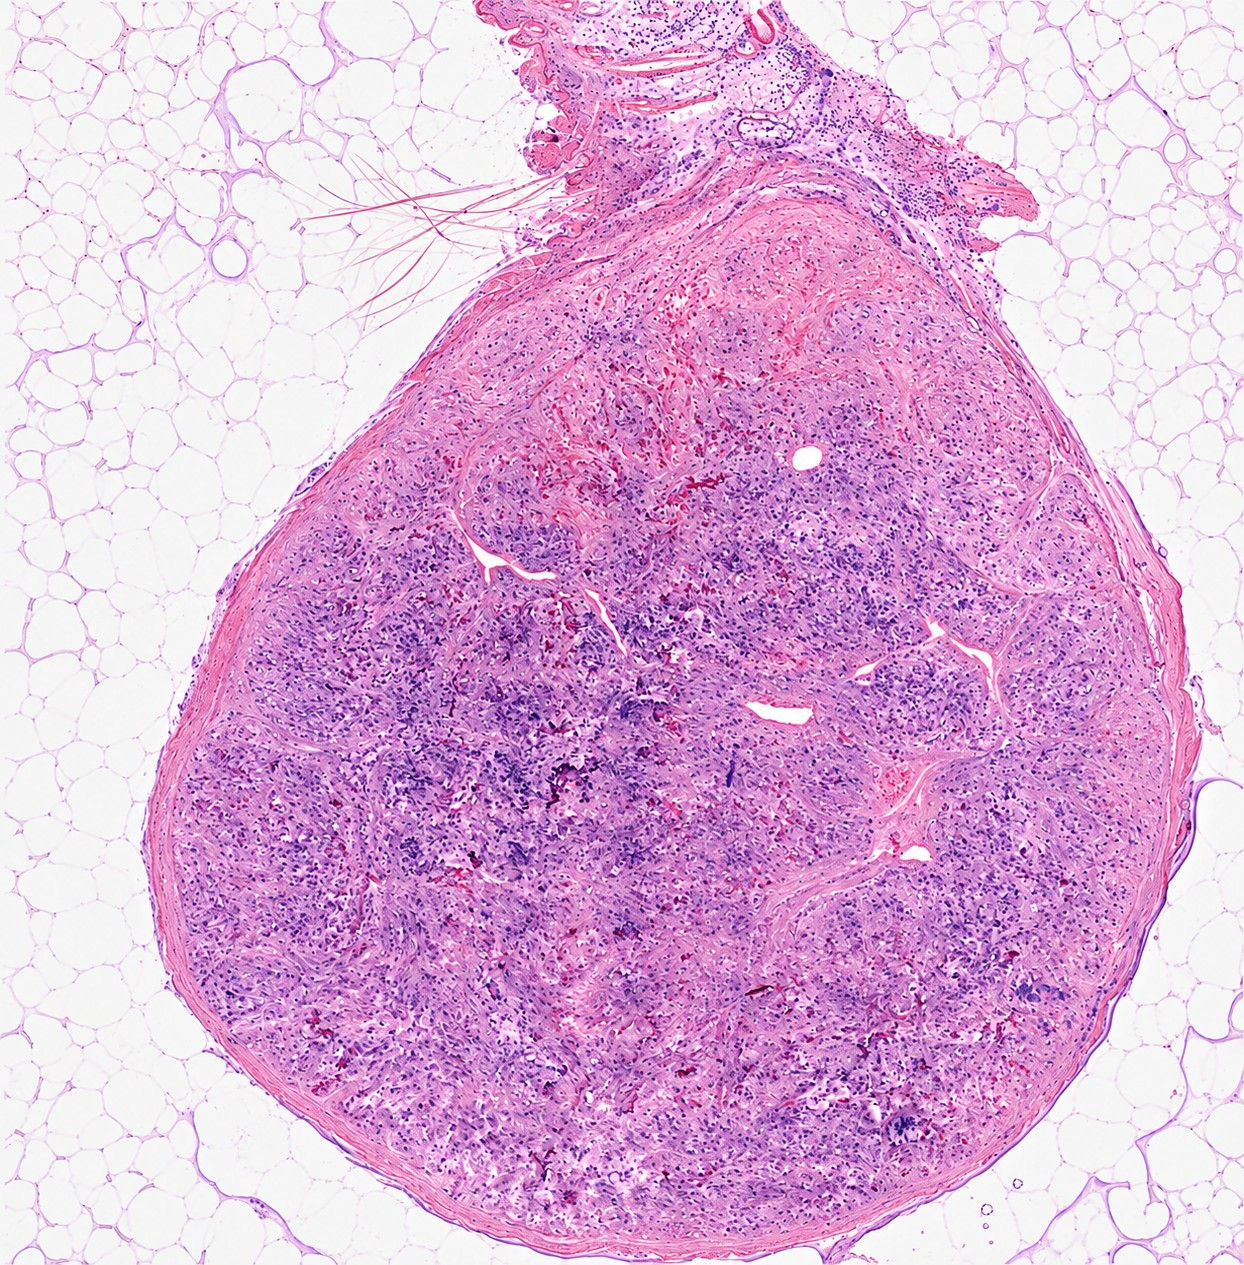
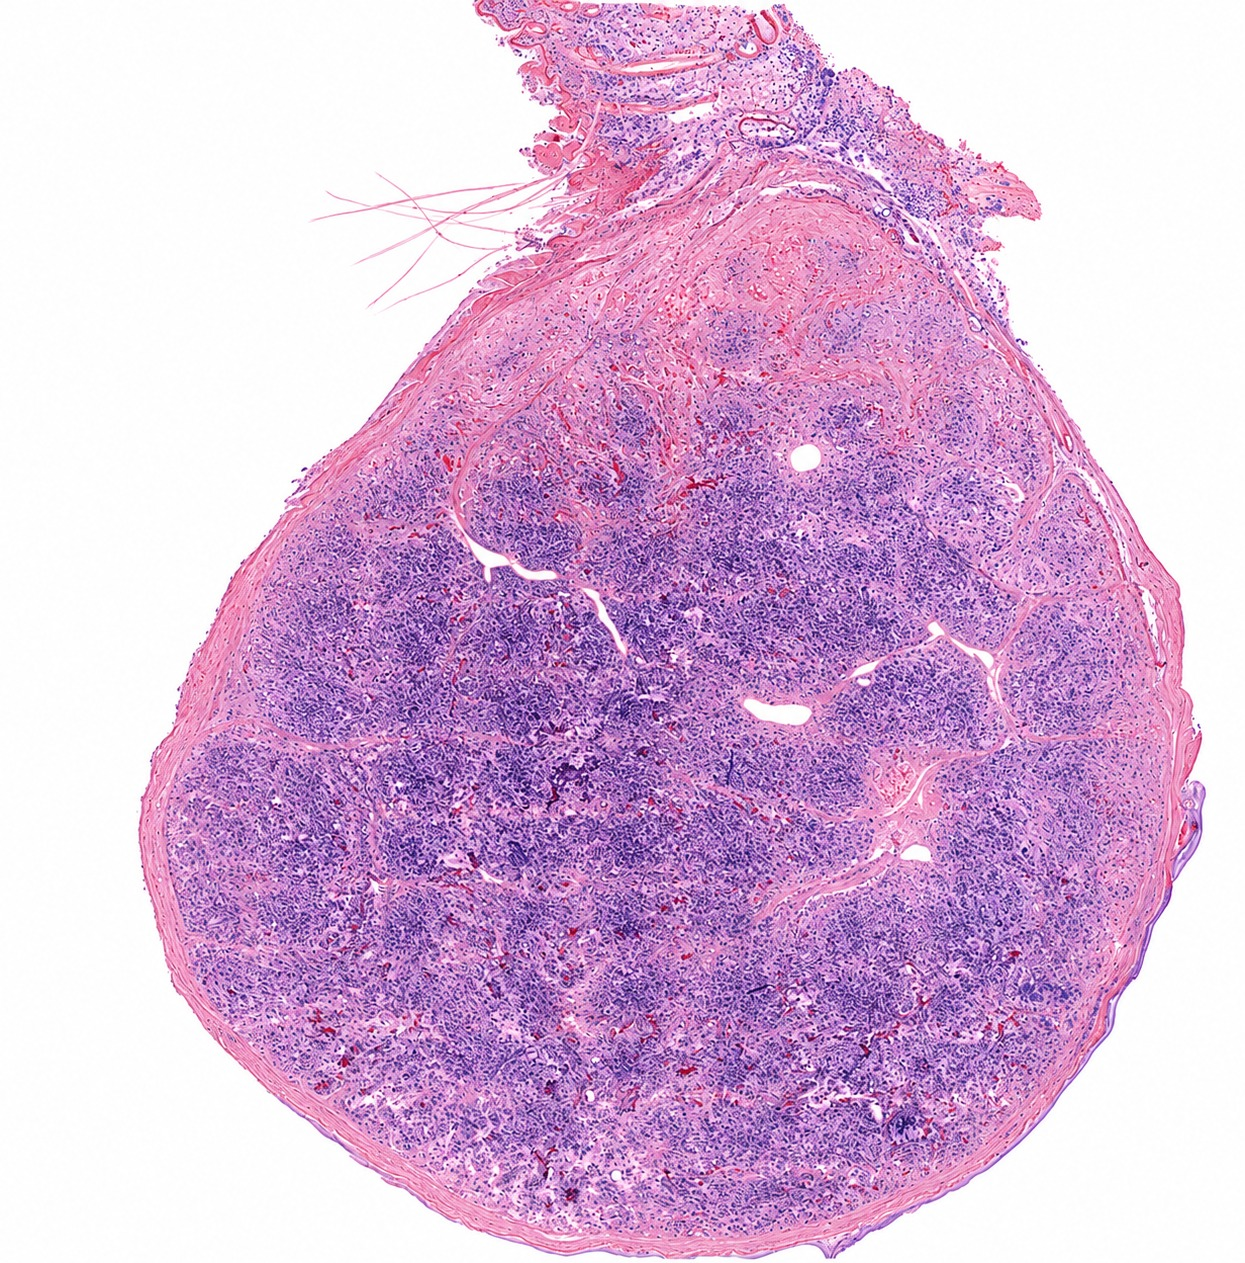
vidium-comparison: replace Trichoblastoma enhanced image (OpenAI, no foam)

diff --git a/vidium-comparison/index.html b/vidium-comparison/index.html
@@ -22,7 +22,7 @@ h2.dx small{display:block;font-size:15px;font-weight:normal;color:#d9cff2;margin
 <figure><div class="pair"><a href="c07_orig.jpg" target="_blank"><img src="c07_orig.jpg" loading="lazy"><i>Original vHE</i></a><a href="c07_enh.jpg" target="_blank"><img src="c07_enh.jpg" loading="lazy"><i>Enhanced</i></a></div><figcaption><strong>Area - OpenAI - 20261019-104729</strong><br>vHE_U10_5690_202610141320 - MCT Area 20261019-104729 - Enhanced OpenAI - MCT.tif<br><small>region 2288 x 1320 px at (7935, 17760), 969 matched points</small></figcaption></figure>
 </section>
 <section id="c5736"><h2 class="dx">Trichoblastoma<small>Case 5736 &middot; 1 comparison</small></h2>
-<figure><div class="pair"><a href="c08_orig.jpg" target="_blank"><img src="c08_orig.jpg" loading="lazy"><i>Original vHE</i></a><a href="c08_enh.jpg" target="_blank"><img src="c08_enh.jpg" loading="lazy"><i>Enhanced</i></a></div><figcaption><strong>Full slide - ChatGPT - 20261017-010128</strong><br>vHE_U10_5736_202610141230 20261017-010128 - Enhanced ChatGPT - Trichoblastoma.tif<br><small>region 26187 x 26627 px at (4, -19), 183 matched points</small></figcaption></figure>
+<figure><div class="pair"><a href="c08_orig.jpg" target="_blank"><img src="c08_orig.jpg" loading="lazy"><i>Original vHE</i></a><a href="c08_enh.jpg" target="_blank"><img src="c08_enh.jpg" loading="lazy"><i>Enhanced</i></a></div><figcaption><strong>Full slide - OpenAI - 20261021-113959</strong><br>vHE_U10_5736_202610141230 - Trichoblastoma 20261021-113959 - Enhanced OpenAI - No foam.tif<br><small>region 26187 x 26627 px at (4, -19), 183 matched points</small></figcaption></figure>
 </section>
 <section id="c5802"><h2 class="dx">Fibroma<small>Case 5802 &middot; 2 comparisons</small></h2>
 <figure><div class="pair"><a href="c21_orig.jpg" target="_blank"><img src="c21_orig.jpg" loading="lazy"><i>Original vHE</i></a><a href="c21_enh.jpg" target="_blank"><img src="c21_enh.jpg" loading="lazy"><i>Enhanced</i></a></div><figcaption><strong>Full slide - OpenAI - 20261019-105038</strong><br>vHE_U15_5802_202610121525 - Fibroma 20261019-105038 - Enhanced OpenAI - Fibroma.tif<br><small>region 37382 x 25000 px at (0, 0), 6 matched points</small></figcaption></figure>
